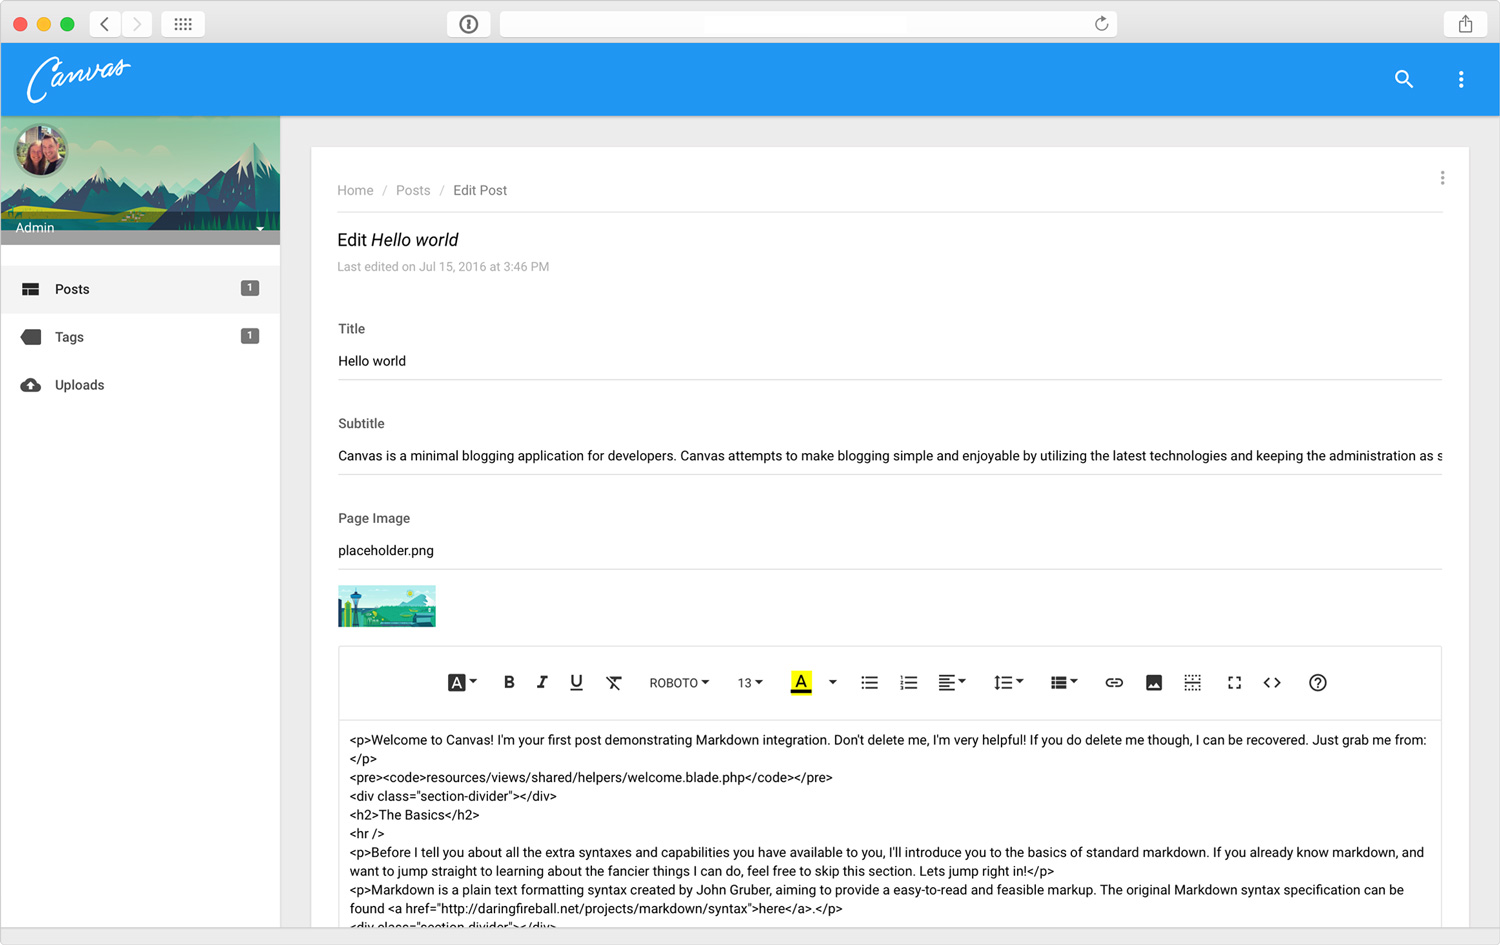
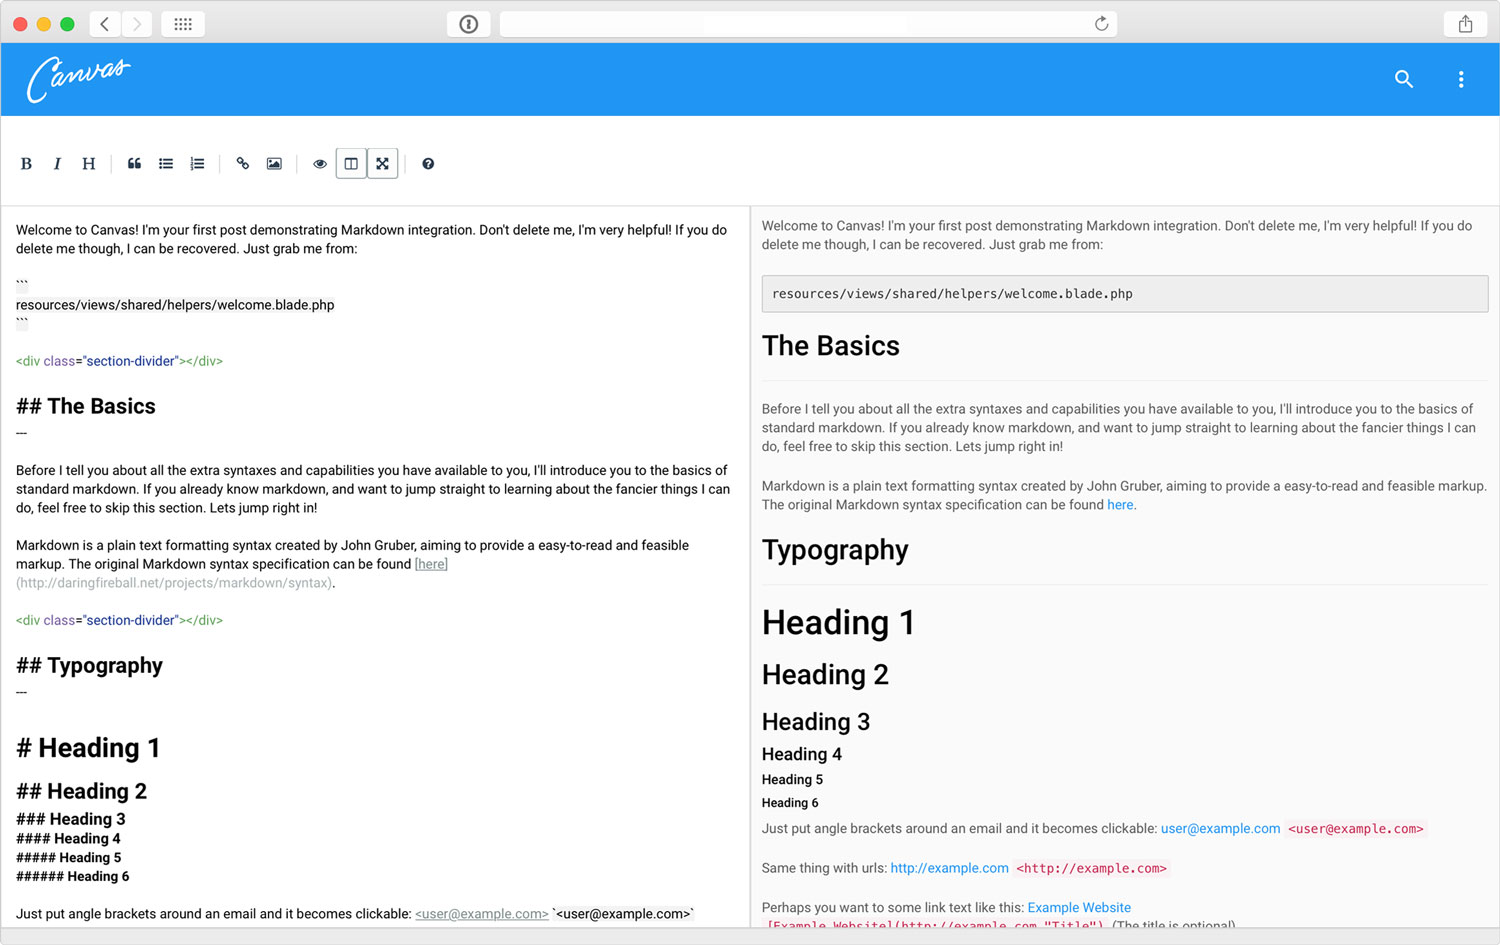
Updates screenshots

diff --git a/index.html b/index.html
@@ -234,7 +234,7 @@
                         <div class="c">
                             <div class="gs kj">
                                 <p class="ak amb eq">
-                                    Create and edit your content with the power of <a href="http://summernote.org" target="_blank">Summernote</a>, an elegant WYSIWYG editor designed for desktop or mobile users.
+                                    Create and edit your content with the power of <a href="https://simplemde.com" target="_blank">SimpleMDE</a>, a beautiful markdown editor designed for desktop or mobile users.
                                 </p>
                             </div>
                         </div>
@@ -356,10 +356,10 @@
                         <a href="https://github.com/talv86" target="_blank">Talvinder Bansal</a>
                     </li>
                     <li>
-                        <a href="https://github.com/erikgall" target="_blank">Erik Galloway</a>
+                        <a href="https://github.com/RDelorier" target="_blank">Ricky Delorier</a>
                     </li>
                     <li>
-                        <a href="https://github.com/RDelorier" target="_blank">Ricky Delorier</a>
+                        <a href="https://github.com/erikgall" target="_blank">Erik Galloway</a>
                     </li>
                     <li>
                         <a href="https://github.com/austintoddj/canvas/graphs/contributors" target="_blank">More...</a>
